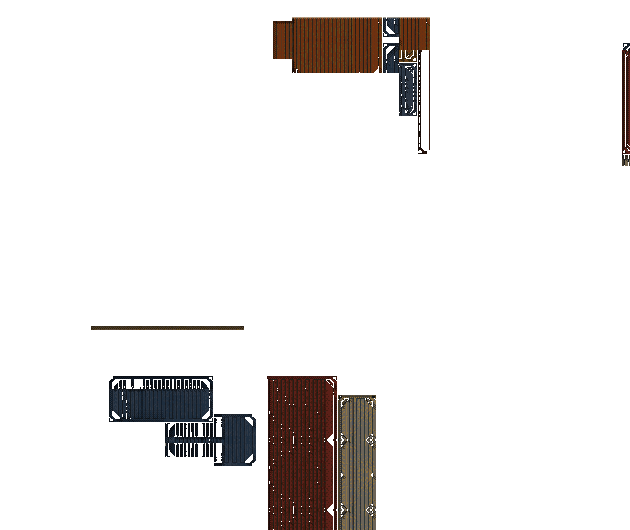
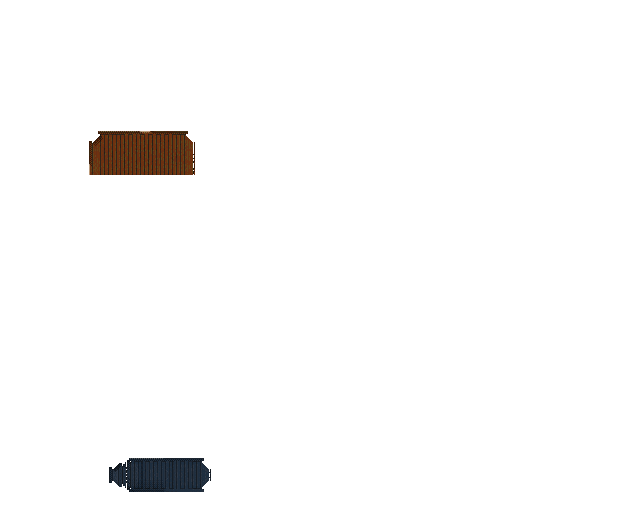
Piles: only whole boxes go back a layer, so the parallax never tears one
Rebuilt with the painted ends, Pile 3's teal box came apart as the camera
came in: its own dark grid cut it into pieces, some drawn at the far layer,
so thin strips of it slid over the crevice (a comb under the box). Pieces at
random depths was the fault, not the painting. Now only a piece its dark
lines leave whole (1500 px or more, box-shaped: it fills 85% of its bounding
box, at least 16 px each way) may go back; a whole box's scraps go with it
when it rings them; anything within 24 px of the entrance stays near so the
hallway's frame never slides off its lamps. Fewer boxes move, none tear.

diff --git a/tkg/art/stations/sides.py b/tkg/art/stations/sides.py
@@ -260,12 +260,67 @@ def static_terms(rgb, al, kind, lampmask, seed=7):
         sizes = ndimage.sum(np.ones_like(lab), lab, index=np.arange(1, n + 1)) if n else []
         rng = np.random.default_rng(seed)
         for i in range(1, n + 1):
-            if sizes[i - 1] >= 250:
-                depth[lab == i] = int(rng.choice([1, 1, 2, 3]))
+            # (ONE DEPTH PER WHOLE BOX: only a box its dark lines leave whole, 1500 px or more, may go back; a
+            # box its own texture cuts into scraps stays near, or its scraps would part at different depths)
+            r_ = int(rng.choice([1, 1, 2, 3]))
+            if sizes[i - 1] >= 1500:
+                # (and only a box-shaped piece: one that fills most of its bounding box; a piece running through
+                # several boxes is ragged and stays near)
+                sl_ = ndimage.find_objects((lab == i).astype(int))[0]
+                area = (sl_[0].stop - sl_[0].start) * (sl_[1].stop - sl_[1].start)
+                if sizes[i - 1] >= 0.8 * area:
+                    depth[lab == i] = r_
+        # (what frames the entrance stays with it: anything within 24 px of the kept entrance is near, or the
+        # frame round the hallway would slide off its lamps)
+        near_ent = box(al.shape, EBOX[0] - 24, EBOX[1] - 24, EBOX[2] + 24, EBOX[3] + 24)
+        for i in np.unique(lab[near_ent & (lab > 0)]):
+            depth[lab == i] = 1
+        # (a whole box's scraps -- the pieces its own texture cut off -- go where the box goes: a small piece
+        # ringed mostly by one far box takes its depth)
+        objs = ndimage.find_objects(lab)
+        # (every piece round it votes, the scraps of near boxes too)
+        bigd = np.where(lab > 0, depth, 0)
+        for i, sl in enumerate(objs, 1):
+            if sl is None or sizes[i - 1] >= 1500:
+                continue
+            y0_, y1_ = max(0, sl[0].start - 4), min(H, sl[0].stop + 4)
+            x0_, x1_ = max(0, sl[1].start - 4), min(W, sl[1].stop + 4)
+            m = lab[y0_:y1_, x0_:x1_] == i
+            ring = ndimage.binary_dilation(m, iterations=3) & ~m
+            v = bigd[y0_:y1_, x0_:x1_][ring]
+            v = v[v > 0]
+            if len(v) < 6:
+                continue
+            vals, cnt = np.unique(v, return_counts=True)
+            k = int(cnt.argmax())
+            if vals[k] > 1 and cnt[k] >= 0.6 * len(v):
+                depth[y0_:y1_, x0_:x1_][m] = int(vals[k])
         d2 = depth.copy()
         for dy, dx in ((0, 1), (1, 0), (0, -1), (-1, 0)):
             d2 = np.minimum(d2, np.roll(np.roll(depth, dy, 0), dx, 1))
         depth = np.where(outline, np.minimum(d2, 3), depth)
+        # NO COMBS: a box's dark texture (a grid, ribs) splits it into pieces that can land at different depths,
+        # and the parallax then slides thin strips of it over the crevice (pile 3's teal box). A far layer is
+        # only its thick parts (a 5 x 5 opening) in pieces of at least 150 px; the rest comes back to the near
+        for dd in (2, 3):
+            m = depth == dd
+            thick = ndimage.binary_opening(m, structure=np.ones((5, 5)))
+            lab2, n2 = ndimage.label(thick)
+            if n2:
+                sz2 = ndimage.sum(np.ones_like(lab2), lab2, index=np.arange(1, n2 + 1))
+                thick = np.isin(lab2, 1 + np.nonzero(sz2 >= 150)[0])
+            # (a piece's own outline stays with it: the thick part grown by 2 px, within what was at this depth)
+            keep = ndimage.binary_dilation(thick, iterations=2) & m
+            depth[m & ~keep] = 1
+            # (and what is left must look like boxes: a far region that fills under 85% of its bounding box is
+            # ragged -- a box's scraps strewn through its neighbours' -- and comes back near whole)
+            lab3, n3 = ndimage.label(depth == dd)
+            for j, sl in enumerate(ndimage.find_objects(lab3), 1):
+                if sl is None:
+                    continue
+                mm = lab3[sl] == j
+                if mm.sum() < 0.85 * mm.size or mm.shape[0] < 16 or mm.shape[1] < 16:
+                    depth[sl][mm] = 1
     depth[ent] = 0
     for dd, f in ((2, 0.9), (3, 0.8)):
         S[(depth == dd) & ~lampmask] *= f
